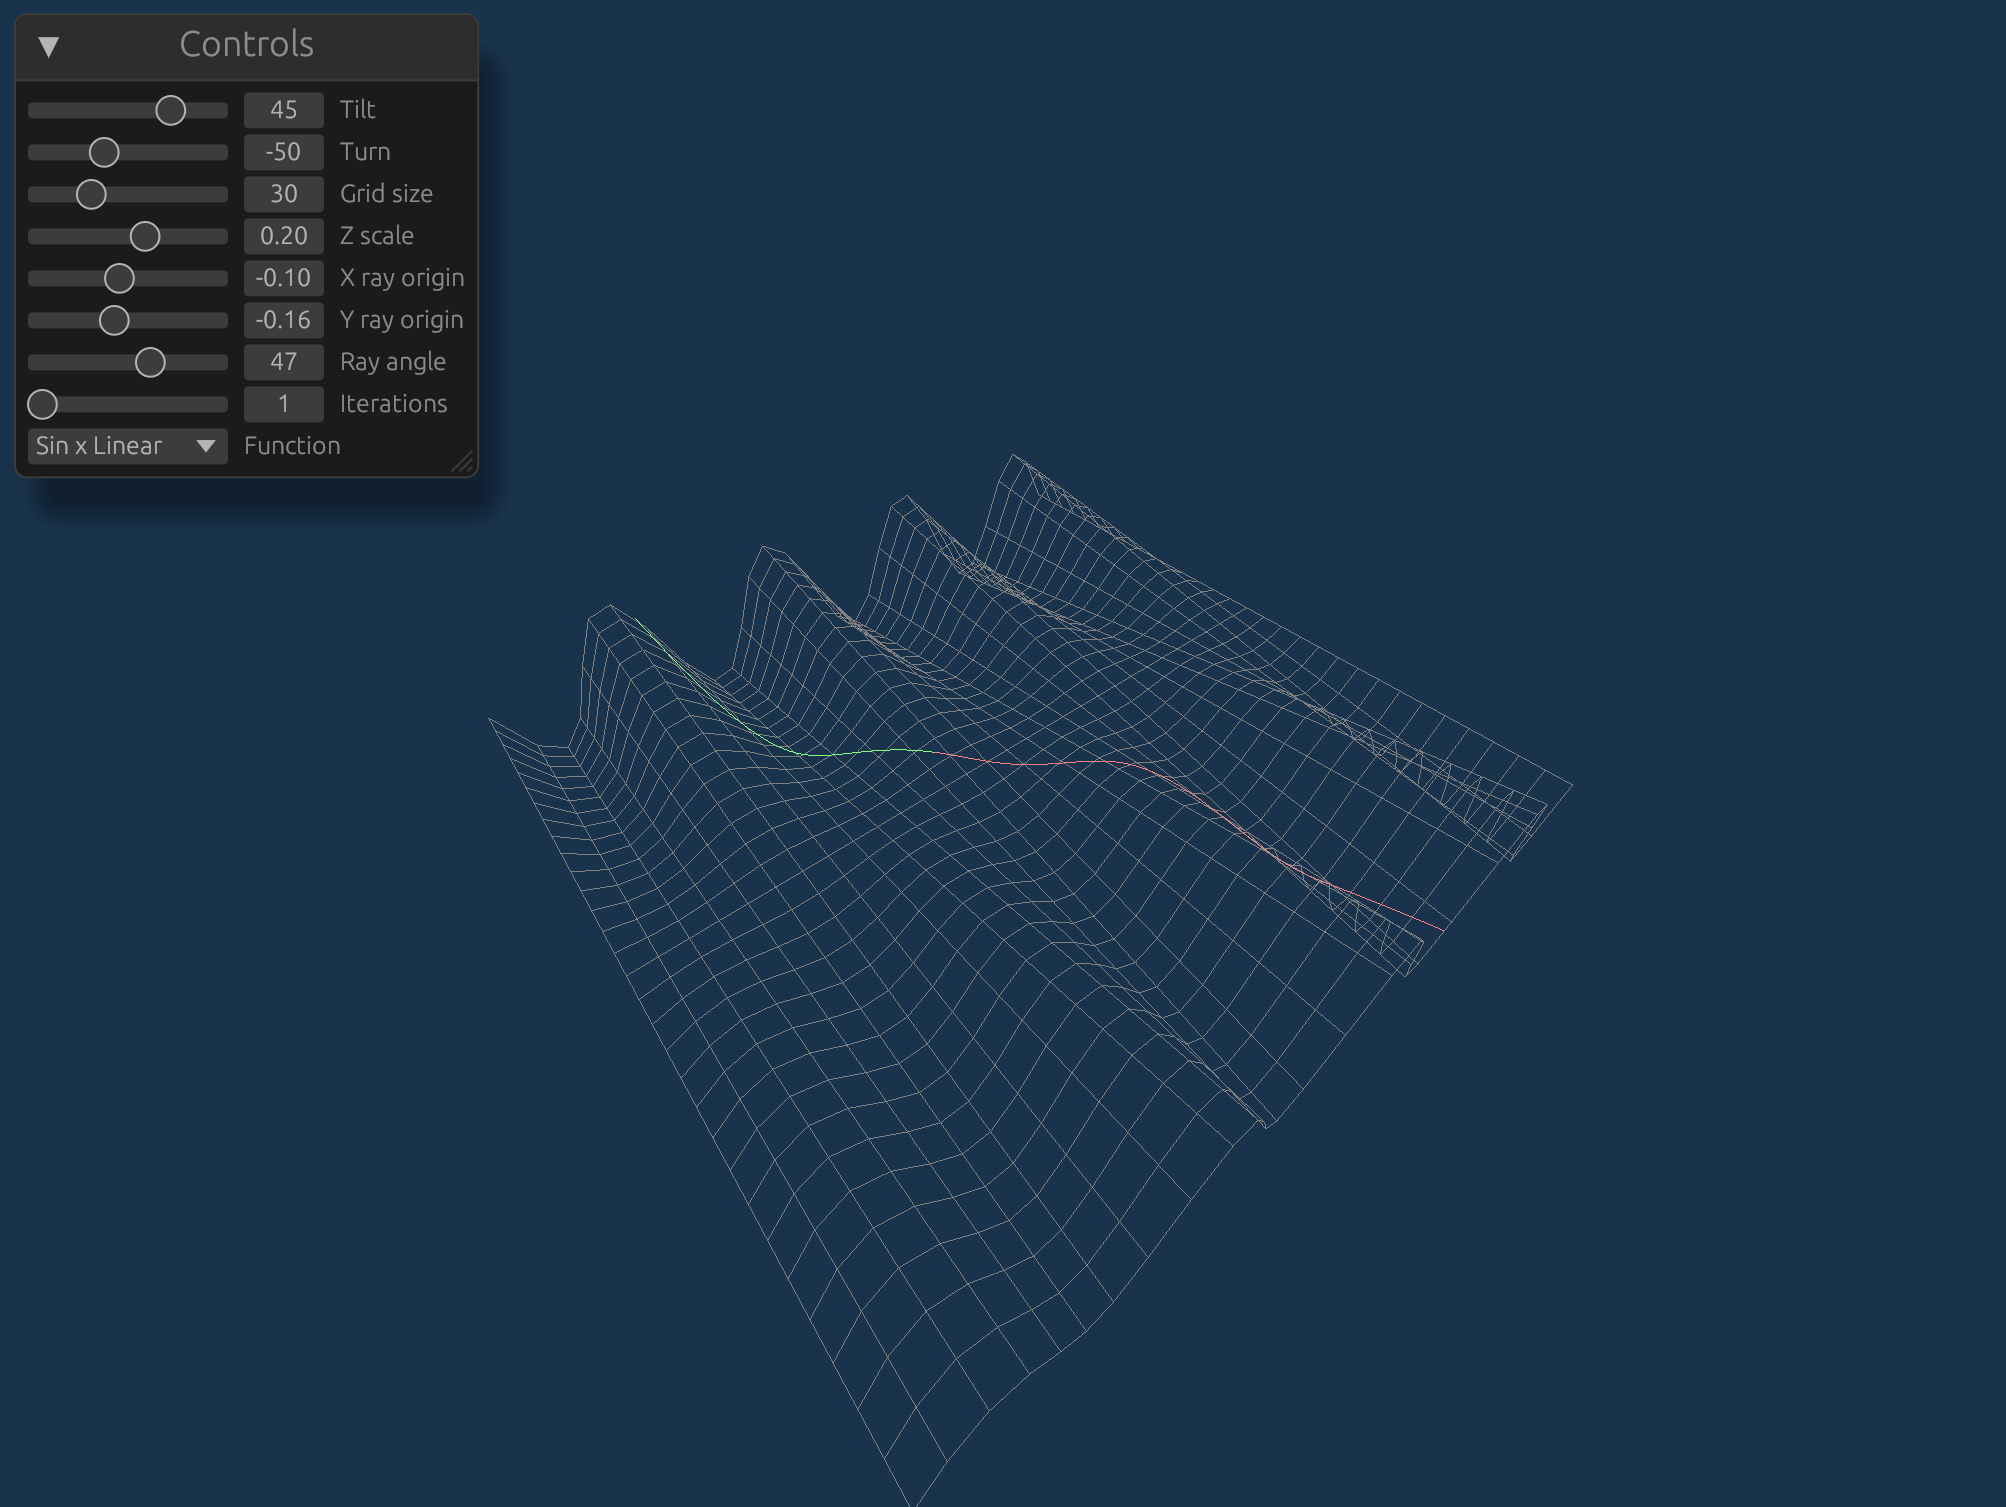
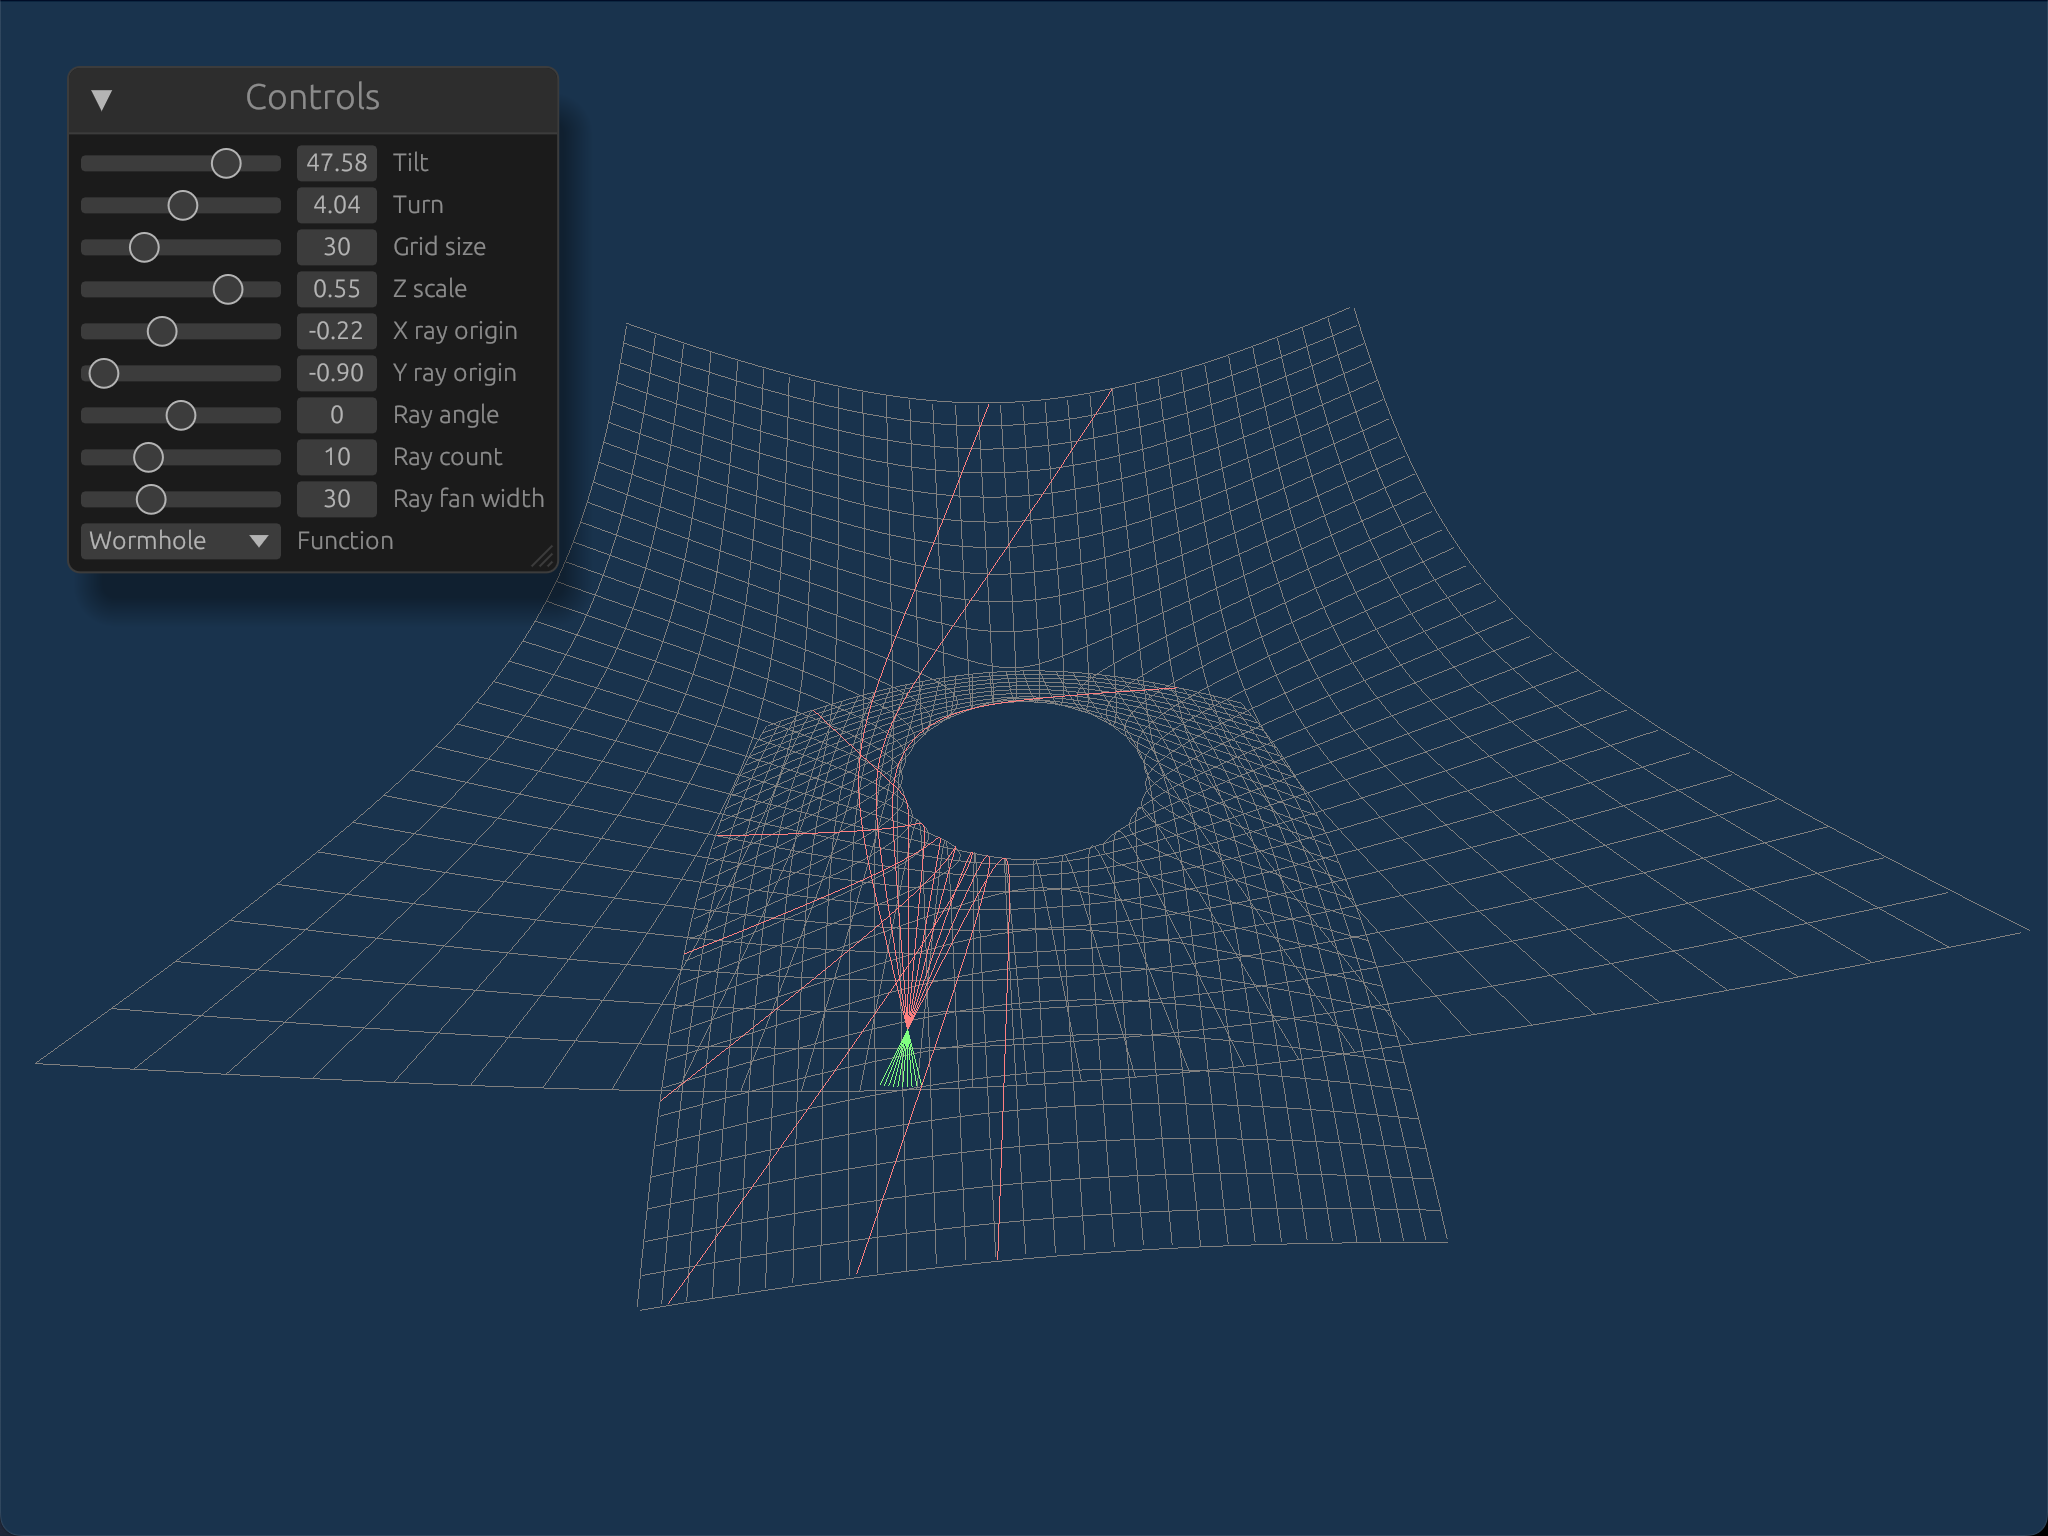
Checkpoint the project by updating the README.md and providing a more up-to-date screenshot.

Changed region(s): [[0.0, 0.0, 0.8036, 0.8421], [0.989, 0.998, 1.0, 1.0], [0.7418, 0.4366, 0.7727, 0.4678]]

diff --git a/README.md b/README.md
@@ -6,19 +6,18 @@ I'll come clean. My end goal is to visualise what a wormhole would
 actually look like. Not a physically accurate one, but at least a
 mathematically accurate one - what you'd get if you cut out a subspace
 in a pair of $\mathbb{R}^3$ spaces and connected them with a
-"tube". I'm nowhere near that, right now.
+"tube".
 
-As a predecessor step, I'd like to do that for a pair of
-$\mathbb{R}^2$ spaces. Stepping back further, I'd like to understand
-how curved space behaves, mathematically, full stop. On that bit, I
-feel I'm making progress.
+This project is a start, letting you explore a curved $\mathbb{R}^2$
+space. It has allowed me, to some degree, understand how curved space
+behaves, mathematically.
 
 More on that later. First, what is this, and how do you run it?
 
 ## What is this?
 
 This program renders a curved 2D space (embedded in 3D, with a choice
-of 2D surfaces), and lets you point a line through it, seeing how the
+of 2D surfaces), and lets you point lines through it, seeing how the
 line curves over the space. There are various controls you can use,
 I'm lazy (well, actually extremely low on energy) and I'll let you
 figure them out by yourself, reading the source if necessary.
@@ -41,7 +40,7 @@ cargo run --features=sdl2
 
 Running with sdl2 is not recommended, as the egui-based GUI is
 disabled, effectively rendering it useless. This is really a stub for
-future work.
+potential future work.
 
 ### Web
 
@@ -235,6 +234,10 @@ curvature otherwise, and this seems to have mostly done the trick. I
 love half-baked numerical methods!
 
 ### And beyond
+
+At this point, I'm fairly happy with what this tool does, and am
+looking to do the tracing through a 3D curved space embedded in 4D, or
+maybe dig further into the maths.
 
 End goals are:
 
